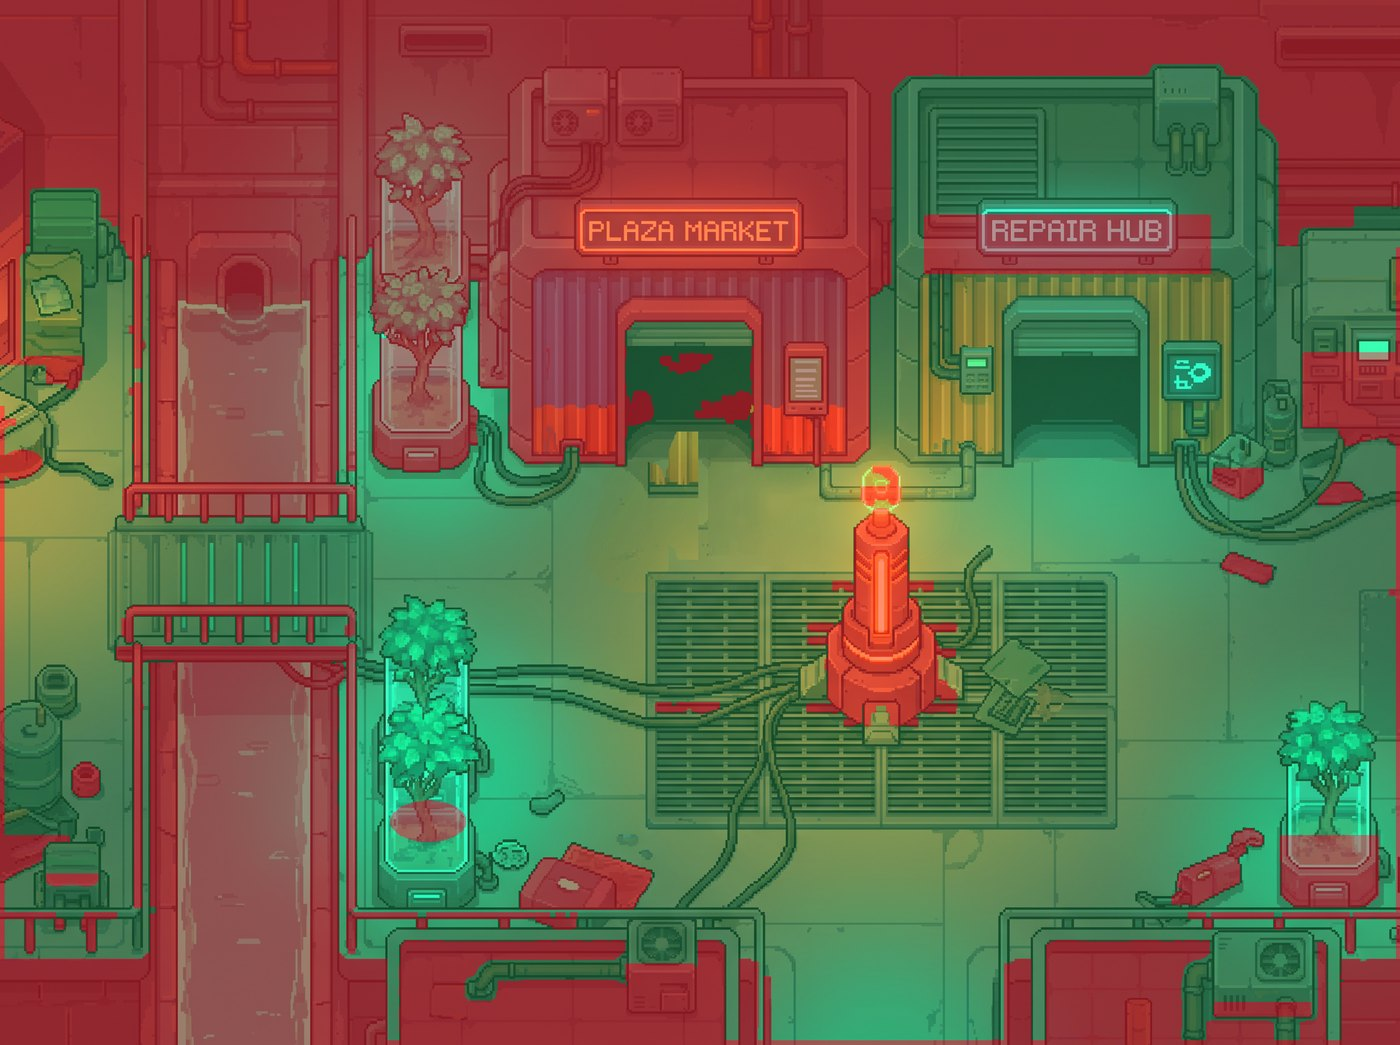
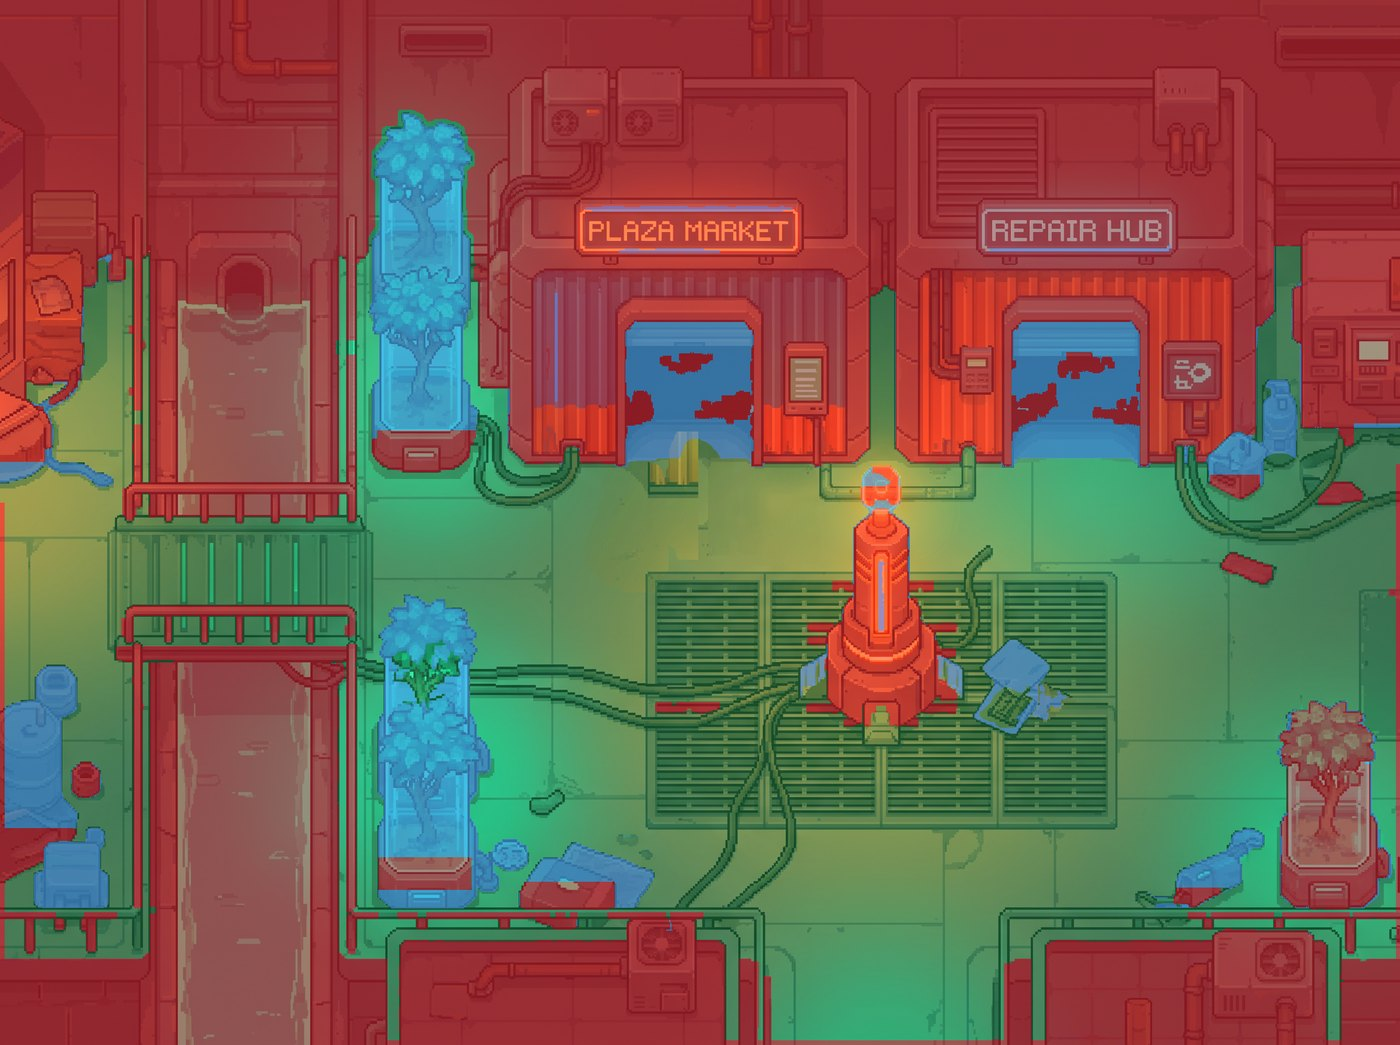
align: blue overlay convention — 4th color for overhead + elevated art
Add BLUE (#4C8CFF) tinting to collision preview overlays for elements
in the air: overhead.png pixels (thin suspended wires/lanterns) plus
liberated walk-behind regions (blocking instance bodies above their
footprints where collision is walkable — building overhangs, pylon
tops, tank glass).

Legend: green=walkable-reachable, yellow=walkable-unreachable,
red=blocked, BLUE=elevated art over passable ground.

Anchorroom preview regenerated: 8.1% blue (7,893 overhead + 338,813
liberated walk-behind px). This kills the recurring judge false-alarm
on "green over object bodies" — the blue class explicitly identifies
elevated art that the player walks behind.

diff --git a/tools/art-pipeline/room_factory.py b/tools/art-pipeline/room_factory.py
@@ -83,6 +83,20 @@ def build_room(room):
     blend[reach] = blend[reach] * 0.72 + np.array([40, 255, 90], np.float32) * 0.28
     isl = col & ~reach
     blend[isl] = blend[isl] * 0.45 + np.array([255, 230, 40], np.float32) * 0.55
+    blue = np.zeros((H, W), dtype=bool)
+    ohp = os.path.join(art, 'overhead.png')
+    if os.path.exists(ohp):
+        blue |= np.asarray(Image.open(ohp).convert('L').resize((W, H), Image.NEAREST)) > 127
+    fpp = os.path.join(art, 'nbp-footprint.png')
+    smp = os.path.join(AP, f'_srcmasks_{room}.npz')
+    if os.path.exists(fpp) and os.path.exists(smp):
+        fp = np.asarray(Image.open(fpp).convert('L').resize((W, H), Image.NEAREST)) > 127
+        inst_arr = np.load(smp)['inst']
+        if inst_arr.shape == (H, W):
+            blocking_ids = {i['id'] for i in inst.get('instances', []) if i.get('blocking')}
+            body_mask = np.isin(inst_arr, list(blocking_ids))
+            blue |= body_mask & ~fp & col
+    blend[blue] = blend[blue] * 0.45 + np.array([76, 140, 255], np.float32) * 0.55
     ov = Image.fromarray(blend.clip(0, 255).astype(np.uint8))
     ov.thumbnail((1400, 1400), Image.LANCZOS)
     ov.save(os.path.join(art, 'collision-preview.jpg'), quality=86)
